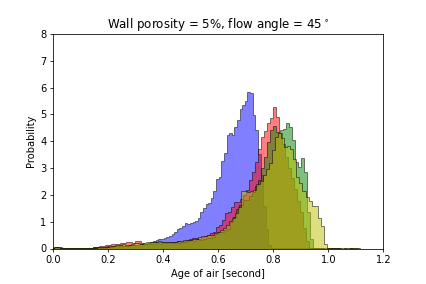
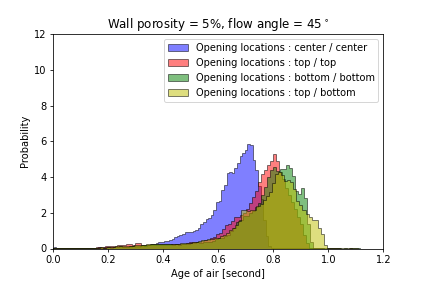
replace figures

diff --git a/postProcess/postProcess_figures.py b/postProcess/postProcess_figures.py
@@ -26,15 +26,15 @@ class fCase():
         self.fPath =''
     
     def readCoord(self):
-        self.XYZ = np.loadtxt(self.fPath+'_XYZ.txt',delimiter=',')
+        self.XYZ = np.loadtxt(self.fPath+'_XYZ.dat',delimiter=',')
     def readVelocity(self):
-        self.U   = np.loadtxt(self.fPath+'_U.txt',delimiter=',')
-        self.V   = np.loadtxt(self.fPath+'_V.txt',delimiter=',')
-        self.W   = np.loadtxt(self.fPath+'_W.txt',delimiter=',')
+        self.U   = np.loadtxt(self.fPath+'_U.dat',delimiter=',')
+        self.V   = np.loadtxt(self.fPath+'_V.dat',delimiter=',')
+        self.W   = np.loadtxt(self.fPath+'_W.dat',delimiter=',')
     def readP(self):
-        self.P   = np.loadtxt(self.fPath+'_P.txt',delimiter=',')
+        self.P   = np.loadtxt(self.fPath+'_P.dat',delimiter=',')
     def readC(self):
-        self.C   = np.loadtxt(self.fPath+'_C.txt',delimiter=',')
+        self.C   = np.loadtxt(self.fPath+'_C.dat',delimiter=',')
     def computeAoA(self):
         self.AoA = np.trapz(self.C, dx=self.dt*self.dstep,axis=0)
             
@@ -145,8 +145,9 @@ plt.hist(D1_5.AoA, color='y', **kwargs, label='Opening locations : top / bottom'
 plt.xlabel('Age of air [second]')
 plt.ylabel('Probability')
 plt.xlim(0,1.)
-plt.ylim(0,10)
-plt.legend( bbox_to_anchor=(0.8,-0.2))
+plt.ylim(0,14)
+plt.legend()
+# plt.legend( bbox_to_anchor=(0.8,-0.2))
 plt.title('Wall porosity = 5%, flow angle = 0$^\circ$')
 plt.savefig('../Results/configurations_5%.png')
 
@@ -211,8 +212,9 @@ plt.hist(D1_5_45.AoA, color='y', **kwargs, label='Opening locations : top / bott
 plt.xlabel('Age of air [second]')
 plt.ylabel('Probability')
 plt.xlim(0,1.2)
-plt.ylim(0,8)
-plt.legend( bbox_to_anchor=(0.8,-0.2))
+plt.ylim(0,12)
+plt.legend()
+# plt.legend( bbox_to_anchor=(0.8,-0.2))
 plt.title('Wall porosity = 5%, flow angle = 45$^\circ$')
 plt.savefig('../Results/configurations_45deg.png')
 
@@ -228,8 +230,8 @@ plt.hist(D1_5_90.AoA, color='y', **kwargs, label='Opening locations : top / bott
 plt.xlabel('Age of air [second]')
 plt.ylabel('Probability')
 plt.xlim(0,2.5)
-plt.ylim(0,4)
-plt.legend( bbox_to_anchor=(0.8,-0.2))
+plt.ylim(0,6)
+plt.legend()
 plt.title('Wall porosity = 5%, flow angle = 90$^\circ$')
 plt.savefig('../Results/configurations_90deg.png')
 
